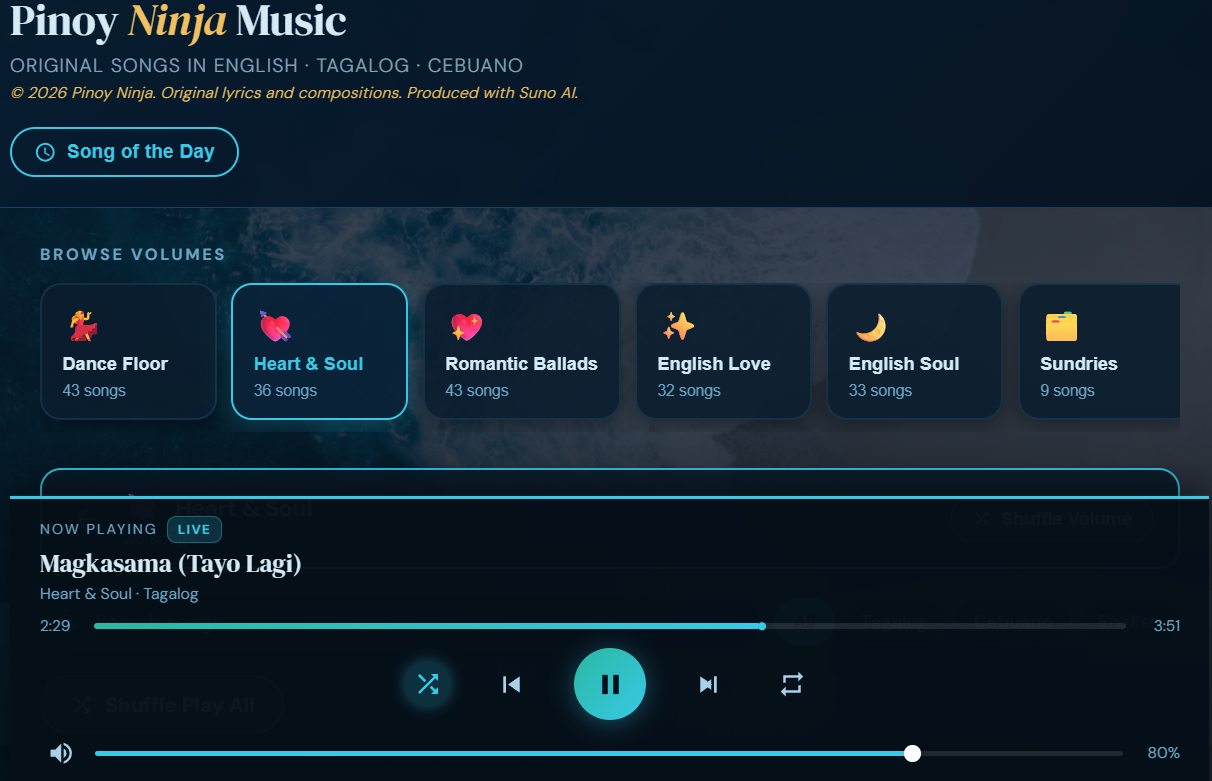
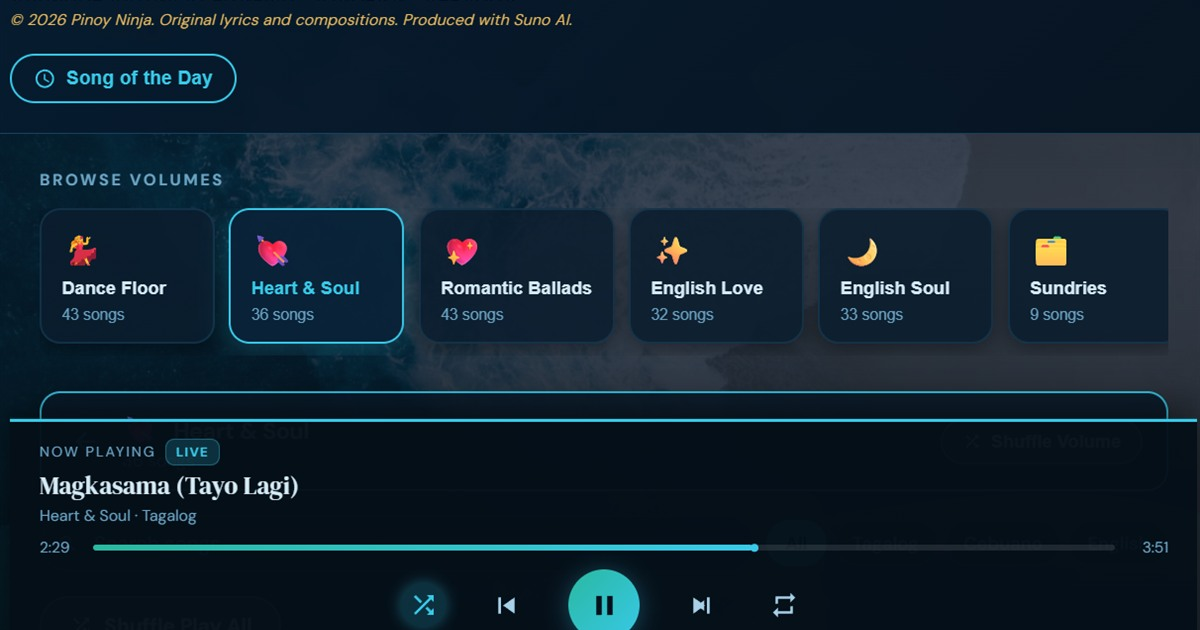
Change title

diff --git a/index.html b/index.html
@@ -3,9 +3,9 @@
 <head>
   <meta charset="UTF-8">
   <meta name="viewport" content="width=device-width, initial-scale=1.0, viewport-fit=cover">
-  <title>Pinoy Ninja Music</title>
+  <title>Professor Elf Music</title>
   <meta name="description" content="Original songs in English, Tagalog, and Cebuano by Pinoy Ninja.">
-  <meta property="og:title"       content="Pinoy Ninja Music">
+  <meta property="og:title"       content="Professor Elf Music">
   <meta property="og:description" content="Original songs in English, Tagalog, and Cebuano.">
   <meta property="og:url"         content="https://songs.prof-elf.org">
   <meta property="og:type"        content="website">
@@ -13,7 +13,7 @@
   <meta property="og:image:width"  content="1200">
   <meta property="og:image:height" content="630">
   <meta name="twitter:card"        content="summary_large_image">
-  <meta name="twitter:title"       content="Pinoy Ninja Music">
+  <meta name="twitter:title"       content="Professor Elf Music">
   <meta name="twitter:description" content="Original songs in English, Tagalog, and Cebuano.">
   <meta name="twitter:image"       content="https://songs.prof-elf.org/og-cover.jpg">
   <meta name="theme-color"        content="#0a1f2e">
